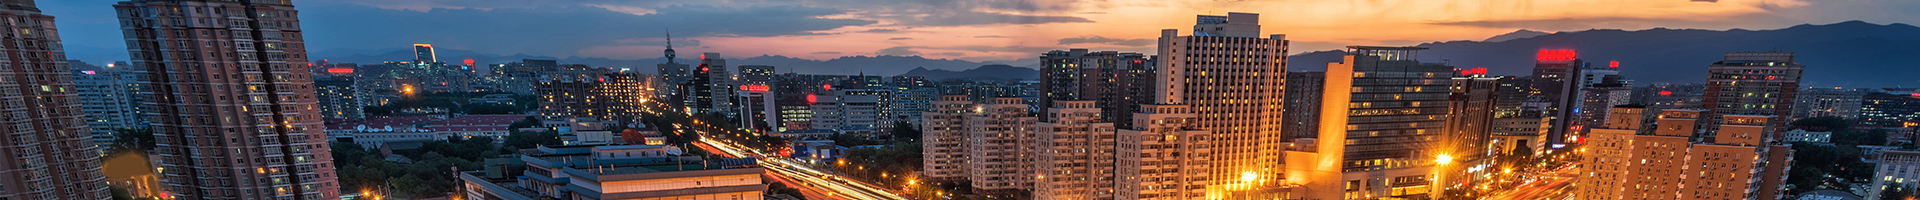
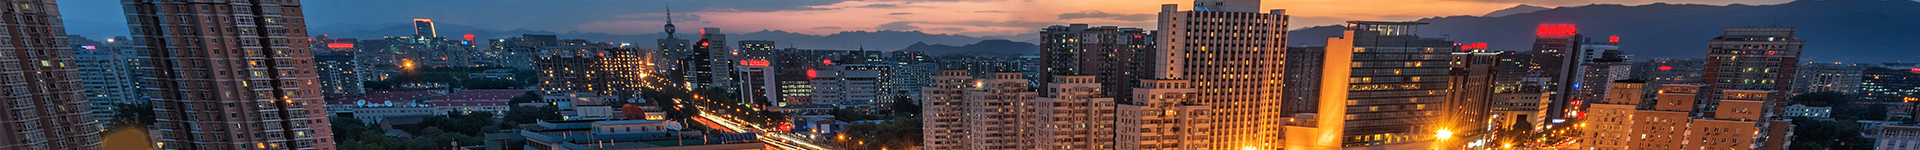
调整

diff --git a/src/common/tpl/home/head.vue b/src/common/tpl/home/head.vue
@@ -6,12 +6,12 @@
 				<li><router-link :to="{name: 'about', params: {columnID: 2}, query: {id: 3}}" target="_blank">加入陆通</router-link></li>
 			</ul>
 			<ul class="about-us" v-else-if="lang == 2">
-				<li><router-link :to="{name: 'about', params: {columnID: 2}, query: {id: 4}}" target="_blank">聯繫我們</router-link></li>
-				<li><router-link :to="{name: 'about', params: {columnID: 2}, query: {id: 3}}" target="_blank">加入陸通</router-link></li>
+				<li><router-link :to="{name: 'about', params: {columnID: 2}, query: {id: 11}}" target="_blank">聯繫我們</router-link></li>
+				<!-- <li><router-link :to="{name: 'about', params: {columnID: 2}, query: {id: 3}}" target="_blank">加入陸通</router-link></li> -->
 			</ul>
 			<ul class="about-us" v-else-if="lang == 3">
-				<li><router-link :to="{name: 'about', params: {columnID: 2}, query: {id: 4}}" target="_blank">CONTACT US</router-link></li>
-				<li><router-link :to="{name: 'about', params: {columnID: 2}, query: {id: 3}}" target="_blank">JOIN US</router-link></li>
+				<li><router-link :to="{name: 'about', params: {columnID: 2}, query: {id: 6}}" target="_blank">CONTACT US</router-link></li>
+				<!-- <li><router-link :to="{name: 'about', params: {columnID: 2}, query: {id: 3}}" target="_blank">JOIN US</router-link></li> -->
 			</ul>
 			<ul class="about-us" v-else>
 				<li>联系我们</li>
@@ -114,21 +114,25 @@
 					localStorage.setItem("lang", langType)
 					this.lang = langType
 					this.getHeadData()
+					window.location.href="/home#/1"
 				} else if(langType === 2) {
 					this.$store.commit('changeLang', langType)
 					localStorage.setItem("lang", langType)
 					this.lang = langType
 					this.getHeadData()
+					window.location.href="/home#/1"
 				} else if(langType === 3) {
 					this.$store.commit('changeLang', langType)
 					localStorage.setItem("lang", langType)
 					this.lang = langType
 					this.getHeadData()
+					window.location.href="/home#/1"
 				} else {
 					this.$store.commit('changeLang', 1)
 					localStorage.setItem("lang", 1)
 					this.lang = 1
 					this.getHeadData()
+					window.location.href="/home#/1"
 				}
 				this.closeCoverMenu()
 			},

diff --git a/src/page/home/tpl/lawyerdetail.vue b/src/page/home/tpl/lawyerdetail.vue
@@ -82,13 +82,13 @@
 
 			.lawyer-name {
 				margin-bottom: 2.5rem;
-				font-size: 3.6rem;
+				font-size: 3rem;
 				font-weight: 600;
 			}
 
 			.lawyer-duty {
 				margin-bottom: 4.16666667rem;
-				font-size: 2rem;
+				font-size: 1.8rem;
 				color: #999999;
 			}
 
@@ -98,6 +98,10 @@
 				border-bottom: solid 0.08333333rem #E6E6E6;
 				font-size: 1.6rem;
 				color: #666666;
+
+				p {
+					font-size: 1.6rem !important;
+				}
 			}
 
 			.lawyer-report {
@@ -159,6 +163,14 @@
 				border-bottom: solid 0.08333333rem #E6E6E6;
 				font-size: 1.4rem;
 				color: #666666;
+
+				p {
+					font-size: 1.4rem !important;
+
+					font {
+						font-size: 1.4rem;
+					}
+				}
 			}
 
 			.lawyer-report {

diff --git a/src/page/manage/tpl/hot.vue b/src/page/manage/tpl/hot.vue
@@ -197,7 +197,7 @@
 					this.hotDescribe1 = this.hotList[index].describe1
 					this.hotTitle2 = this.hotList[index].title2
 					this.hotLink2 = this.hotList[index].url2
-					this.hotDescribe2 = this.hotList[index].describe3
+					this.hotDescribe2 = this.hotList[index].describe2
 					this.hotTitle3 = this.hotList[index].title3
 					this.hotLink3 = this.hotList[index].url3
 					this.hotDescribe3 = this.hotList[index].describe3

diff --git a/src/common/tpl/home/banner.vue b/src/common/tpl/home/banner.vue
@@ -27,7 +27,7 @@
 	.banner {
 		position: relative;
 		width: 100%;
-		height: 16.66666666rem;
+		height: 12.5rem;
 		background-color: white;
 		background-position: right center;
 		background-repeat: no-repeat;
@@ -36,9 +36,9 @@
 		img {
 			display: block;
 			position: absolute;
-			top: 50px;
-			left: 50px;
-			max-height: 100px;
+			top: 3.125rem;
+			left: 4.16666667rem;
+			max-height: 6.25rem;
 		}
 	}
 
